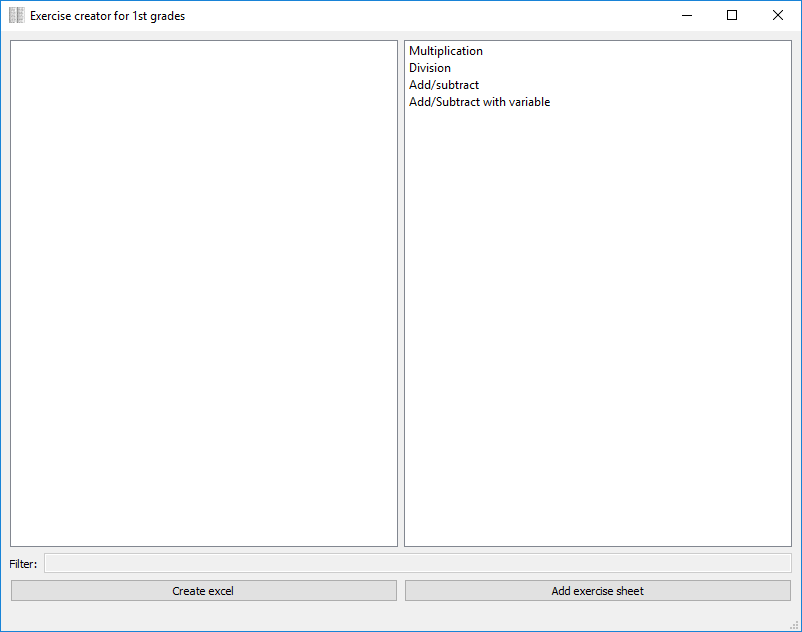
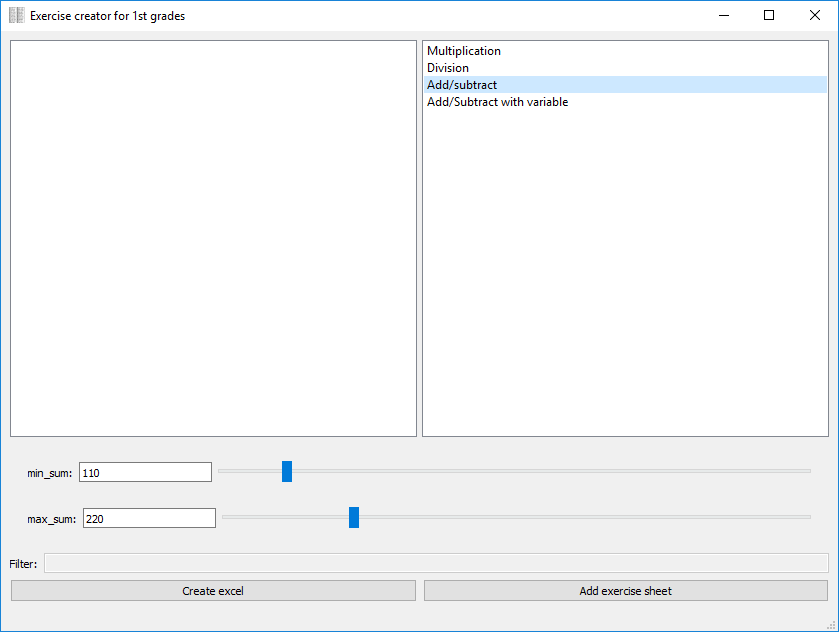
configurator

diff --git a/wgtConfigurator.py b/wgtConfigurator.py
@@ -9,8 +9,8 @@ Written by Roee Sfaradi
 # %%
 
 
-from PyQt5 import QtCore, QtGui, QtWidgets
-from PyQt5.QtWidgets import QTableWidgetItem,QWidget
+from PyQt5 import QtCore, QtWidgets
+from PyQt5.QtWidgets import QWidget
 
 
 
@@ -49,8 +49,9 @@ class SliderTextbox(QWidget):
 
         text_box.textChanged.connect(self.text_box_update)
 
-        self._min_val=_min
-        self._max_val=_max
+        self._name=name
+        self._min_val = _min
+        self._max_val = _max
 
         self.horizontalLayout.addWidget(label)
         self.horizontalLayout.addWidget(text_box)
@@ -61,12 +62,15 @@ class SliderTextbox(QWidget):
 
     def text_box_update(self):
         if is_number(self.text_box.text()):
-            val=float(self.text_box.text())
-            val=int(val+0.5)
-            val=max(min(val,self._max_val),self._min_val)
+            val = float(self.text_box.text())
+            val = int(val+0.5)
+            val = max(min(val,self._max_val),self._min_val)
 
             self.text_box.setText("{}".format(val))
             self.slider.setValue(val)
+
+    def update_result(self,dict):
+        dict[self._name]=self.slider.value()
 
 
 
@@ -77,21 +81,43 @@ class SliderTextbox(QWidget):
 
 class Configurator(QWidget):
 
-    def __init__(self):
-        QWidget.__init__(self)
+    def __init__(self,*args):
+        QWidget.__init__(self,*args)
         self.verticalLayout = QtWidgets.QVBoxLayout(self)
-        self._params=[]
-        self._ui=[]
+        self._params = []
+        self._ui = []
+        self._ctl_list=[]
 
     def set_parameters(self, param_list):
-        for item in self._ui:
-            self.verticalLayout.removeItem(item)
+        #for i in range(0, self.verticalLayout.count()):
+            #self.verticalLayout.removeItem(self.verticalLayout.itemAt(0))
+            #self.verticalLayout.removeWidget(self.verticalLayout.itemAt(0))
+
+        while self.verticalLayout.count() >0:
+            item=self.verticalLayout.takeAt(0)
+            if not item:
+                continue
+            w=item.widget()
+            if w:
+                w.deleteLater()
+        #for item in self._ctl_list:
+#            self.verticalLayout.removeWidget(item)
+#            del item
+
+        self._ctl_list=[]
         for param in param_list:
-            slider_textbox=SliderTextbox(param['name'],param['min'],param['max'],param['default'])
+            slider_textbox=SliderTextbox(param['name'], param['min'], param['max'], param['default'])
 
             self.verticalLayout.addWidget(slider_textbox)
 
-            self._ui.append(slider_textbox)
+            self._ctl_list.append(slider_textbox)
+
+    def get_result(self):
+        d={}
+        for item in self._ctl_list:
+            item.update_result(d)
+
+        return d
 
 
 if __name__ == "__main__":
@@ -102,6 +128,7 @@ if __name__ == "__main__":
         app = QtWidgets.QApplication.instance()
     MainWindow = Configurator()
     MainWindow.set_parameters([{'name':'param1','min':0,'max':10,'default':4},{'name':'param2','min':0,'max':20,'default':6}])
+    MainWindow.set_parameters([{'name':'aaa','min':-20,'max':10,'default':4}])
     MainWindow.show()
     sys.exit(app.exec_())
 

diff --git a/dlgCreatorMainUi.py b/dlgCreatorMainUi.py
@@ -7,6 +7,8 @@
 # WARNING! All changes made in this file will be lost!
 
 from PyQt5 import QtCore, QtGui, QtWidgets
+from wgtConfigurator import Configurator
+from ListWidgetWithEvent import ListWidgetWithEvent
 
 class Ui_MainWindow(object):
     def setupUi(self, MainWindow):
@@ -26,9 +28,12 @@ class Ui_MainWindow(object):
         self.splitter.setObjectName("splitter")
         self.lstExercises = QtWidgets.QListWidget(self.splitter)
         self.lstExercises.setObjectName("lstExercises")
-        self.lstTypes = QtWidgets.QListWidget(self.splitter)
+        self.lstTypes = ListWidgetWithEvent(self.splitter)
         self.lstTypes.setObjectName("lstTypes")
         self.verticalLayout.addWidget(self.splitter)
+        self.wgtParams = Configurator(self.centralwidget)
+        self.wgtParams.setObjectName("wgtParams")
+        self.verticalLayout.addWidget(self.wgtParams)
         self.horizontalLayout_3 = QtWidgets.QHBoxLayout()
         self.horizontalLayout_3.setObjectName("horizontalLayout_3")
         self.label = QtWidgets.QLabel(self.centralwidget)
@@ -36,22 +41,8 @@ class Ui_MainWindow(object):
         self.horizontalLayout_3.addWidget(self.label)
         self.txtFilter = QtWidgets.QLineEdit(self.centralwidget)
         self.txtFilter.setEnabled(False)
-        sizePolicy = QtWidgets.QSizePolicy(QtWidgets.QSizePolicy.Expanding, QtWidgets.QSizePolicy.Fixed)
-        sizePolicy.setHorizontalStretch(0)
-        sizePolicy.setVerticalStretch(0)
-        sizePolicy.setHeightForWidth(self.txtFilter.sizePolicy().hasHeightForWidth())
-        self.txtFilter.setSizePolicy(sizePolicy)
         self.txtFilter.setObjectName("txtFilter")
         self.horizontalLayout_3.addWidget(self.txtFilter)
-        self.horizontalSlider = QtWidgets.QSlider(self.centralwidget)
-        sizePolicy = QtWidgets.QSizePolicy(QtWidgets.QSizePolicy.Expanding, QtWidgets.QSizePolicy.Fixed)
-        sizePolicy.setHorizontalStretch(1)
-        sizePolicy.setVerticalStretch(0)
-        sizePolicy.setHeightForWidth(self.horizontalSlider.sizePolicy().hasHeightForWidth())
-        self.horizontalSlider.setSizePolicy(sizePolicy)
-        self.horizontalSlider.setOrientation(QtCore.Qt.Horizontal)
-        self.horizontalSlider.setObjectName("horizontalSlider")
-        self.horizontalLayout_3.addWidget(self.horizontalSlider)
         self.verticalLayout.addLayout(self.horizontalLayout_3)
         self.horizontalLayout_2 = QtWidgets.QHBoxLayout()
         self.horizontalLayout_2.setObjectName("horizontalLayout_2")
@@ -81,6 +72,7 @@ class Ui_MainWindow(object):
         self.cmdCreate.setText(_translate("MainWindow", "Create excel"))
         self.cmdAddSheet.setText(_translate("MainWindow", "Add exercise sheet"))
 
+from wgtConfigurator import Configurator
 
 if __name__ == "__main__":
     import sys

diff --git a/exercise_creator.py b/exercise_creator.py
@@ -17,17 +17,17 @@ from xls_writer import exercise_xls_writer
 # %%
 writer=exercise_xls_writer()
 
-def create_sum_diff(sheet_name):
-    ex_list=gen.generate_sum_diff()
+def create_sum_diff(sheet_name,min_sum,max_sum):
+    ex_list=gen.generate_sum_diff(min_sum=min_sum,max_sum=max_sum)
     writer.create_ex_list(sheet_name,ex_list)
 
 def create_sum_diff_var(sheet_name):
-    ex_list=gen.generate_sumdiff_variable()
+    ex_list=gen.generate_sumdiff_variable(min_sum=min_sum,max_sum=max_sum)
     writer.create_ex_list(sheet_name,ex_list)
 
 
-def create_mult(sheet_name):
-    ex_list=gen.generate_mult()
+def create_mult(sheet_name, range1_min, range1_max, range2_min, range2_max):
+    ex_list=gen.generate_mult(range1=range(range1_min,range1_max+1), range2=range(range2_min,range2_max+1))
     writer.create_ex_list(sheet_name,ex_list)
 
 def create_div(sheet_name):
@@ -49,10 +49,26 @@ if __name__ == "__main__":
     app_icon.addFile('gui/icons/256x256.png', QtCore.QSize(256,256))
     app.setWindowIcon(app_icon)
     MainWindow = DialogCreatorMain(writer)
-    ex_list=[{'name':'Multiplication',"sheet":"mult","method":create_mult},
+    ex_list=[{'name':'Multiplication',"sheet":"mult","method":create_mult,
+              "params":[
+                  {'name':'range1_min','min':0,'max':9,'default':1},
+                  {'name':'range1_max','min':0,'max':9,'default':9},
+                  {'name':'range2_min','min':0,'max':9,'default':1},
+                  {'name':'range2_max','min':0,'max':9,'default':9}]},
              {'name':'Division',"sheet":"div","method":create_div},
-             {'name':'Add/subtract',"sheet":"sum","method":create_sum_diff},
-             {'name':'Add/Subtract with variable',"sheet":"sum_var","method":create_sum_diff_var}]
+             {'name':'Add/subtract',"sheet":"sum","method":create_sum_diff,
+              "params":[
+                  {'name':'min_sum','min':0,'max':1000,'default':110},
+                  {'name':'max_sum','min':0,'max':1000,'default':220}
+              ]
+              },
+             {'name':'Add/Subtract with variable',"sheet":"sum_var","method":create_sum_diff_var,
+              "params":[
+                  {'name':'min_sum','min':0,'max':1000,'default':110},
+                  {'name':'max_sum','min':0,'max':1000,'default':220}
+              ]
+              }
+             ]
     MainWindow.show()
     MainWindow.SetExerciseList(ex_list)
     res=app.exec_()

diff --git a/dlgCreatorMain.py b/dlgCreatorMain.py
@@ -14,6 +14,7 @@ from PyQt5.QtWidgets import QMainWindow
 from PyQt5 import QtWidgets
 from xls_writer import exercise_xls_writer
 
+
 class DialogCreatorMain(QMainWindow):
 
     def __init__(self,writer):
@@ -24,6 +25,17 @@ class DialogCreatorMain(QMainWindow):
         self.ui.cmdCreate.clicked.connect(self.CreateExcel)
         self.ex_idx=0
         self.writer=writer
+        #self.ui.wgtParams.set_parameters([{'name':'param1','min':0,'max':10,'default':4},{'name':'param2','min':0,'max':20,'default':6}])
+        self.ui.lstTypes.selection_changed.connect(self.TypeSelectionChanged)
+
+    def TypeSelectionChanged(self):
+        idx=self.ui.lstTypes.currentRow()
+        ex=self.ex_list[idx]
+        if 'params' in ex:
+            self.ui.wgtParams.set_parameters(ex['params'])
+        else:
+            self.ui.wgtParams.set_parameters([])
+
 
     def CreateExcel(self):
         if self.ui.lstExercises.count()>0:
@@ -43,9 +55,14 @@ class DialogCreatorMain(QMainWindow):
         
     def AddSheet(self):
         idx=self.ui.lstTypes.currentRow()
-        ex_name="{0}_{1}".format(self.ex_list[idx]['sheet'],self.ex_idx)
+        ex=self.ex_list[idx]
+        ex_name="{0}_{1}".format(ex['sheet'],self.ex_idx)
         self.ui.lstExercises.addItem(ex_name)
-        self.ex_list[idx]['method'](ex_name)
+        if 'params' in ex:
+            d=self.ui.wgtParams.get_result()
+            ex['method'](ex_name,**d)
+        else:
+            ex['method'](ex_name)
         self.ex_idx=self.ex_idx+1
 
     def SetExerciseList(self,ex_list):

diff --git a/ListWidgetWithEvent.py b/ListWidgetWithEvent.py
@@ -1,0 +1,23 @@
+# -*- coding: utf-8 -*-
+"""
+Exercise creator
+ListWidgetWithEvent.py - Main dialog
+
+Licensed under the MIT License (see LICENSE for details)
+Written by Roee Sfaradi
+"""
+# %%
+
+from PyQt5 import QtCore, QtWidgets
+from PyQt5.QtCore import pyqtSignal
+from PyQt5.QtWidgets import QWidget,QListWidget
+
+class ListWidgetWithEvent(QListWidget):
+    selection_changed = pyqtSignal()
+    def __init__(self, *args):
+        QWidget.__init__(self,*args)
+
+
+    def selectionChanged(self, *args, **kwargs):
+        self.selection_changed.emit()
+

diff --git a/README.md b/README.md
@@ -1,6 +1,7 @@
 # First Graders Math excercise creator
 ## General overview
-Math excercises for the first graders. Creates a work-sheets for the first & second graders to print. Allowing the kids to exercise more effectivly.
+Math exercises for the first graders. Creates a work-sheets for the first & second graders to print. Allowing the kids to exercise math in writing.
+Generate random exercises
 
 ## Execution flow & screenshots
 To execute: 
